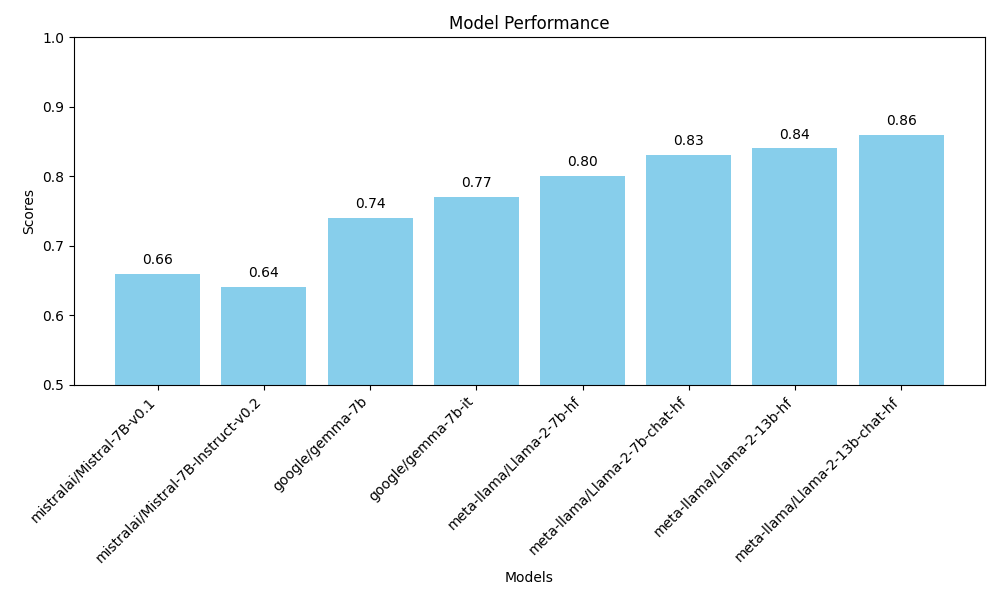
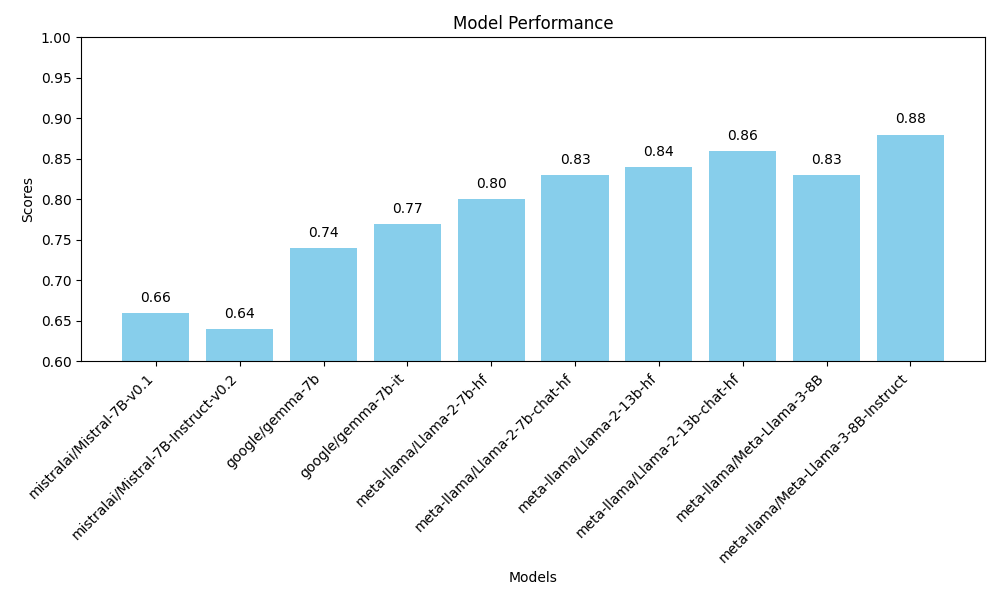
debug: save path

diff --git a/plot_result.py b/plot_result.py
@@ -86,7 +86,7 @@ def plot_model_performance(model_dict):
     plt.title('Model Performance')
     plt.xticks(rotation=45, ha='right')
     # Set y-axis limit to 1
-    plt.ylim(0.5, 1)
+    plt.ylim(0.6, 1)
 
     # Annotate each bar with its accuracy score
     for bar, score in zip(bars, scores):
@@ -105,7 +105,9 @@ def main():
         "meta-llama/Llama-2-7b-hf": 0.8,
         "meta-llama/Llama-2-7b-chat-hf": 0.83,
         "meta-llama/Llama-2-13b-hf": 0.84,
-        "meta-llama/Llama-2-13b-chat-hf": 0.86
+        "meta-llama/Llama-2-13b-chat-hf": 0.86,
+        "meta-llama/Meta-Llama-3-8B": 0.83,
+        "meta-llama/Meta-Llama-3-8B-Instruct": 0.88
     }
 
     # Plot model performance

diff --git a/pipeline.py b/pipeline.py
@@ -606,7 +606,7 @@ def main(args):
             """
 
             run_cli_command(generate_text_command)
-            jsonl_to_json(f"{dpo_full_path}/predict/generated_predictions.jsonl", f"{args.dataset_dir}/generated_predictions_{testset}.json")
+            jsonl_to_json(f"{dpo_full_path}/generated_predictions.jsonl", f"{args.dataset_dir}/generated_predictions_{testset}.json")
             
         # Add new dataset info to datset_info.json to run predict reward model
         add_new_dataset_info(args.data_info_path, dataset_name_generated, f"generated_predictions_{testset}.json")
